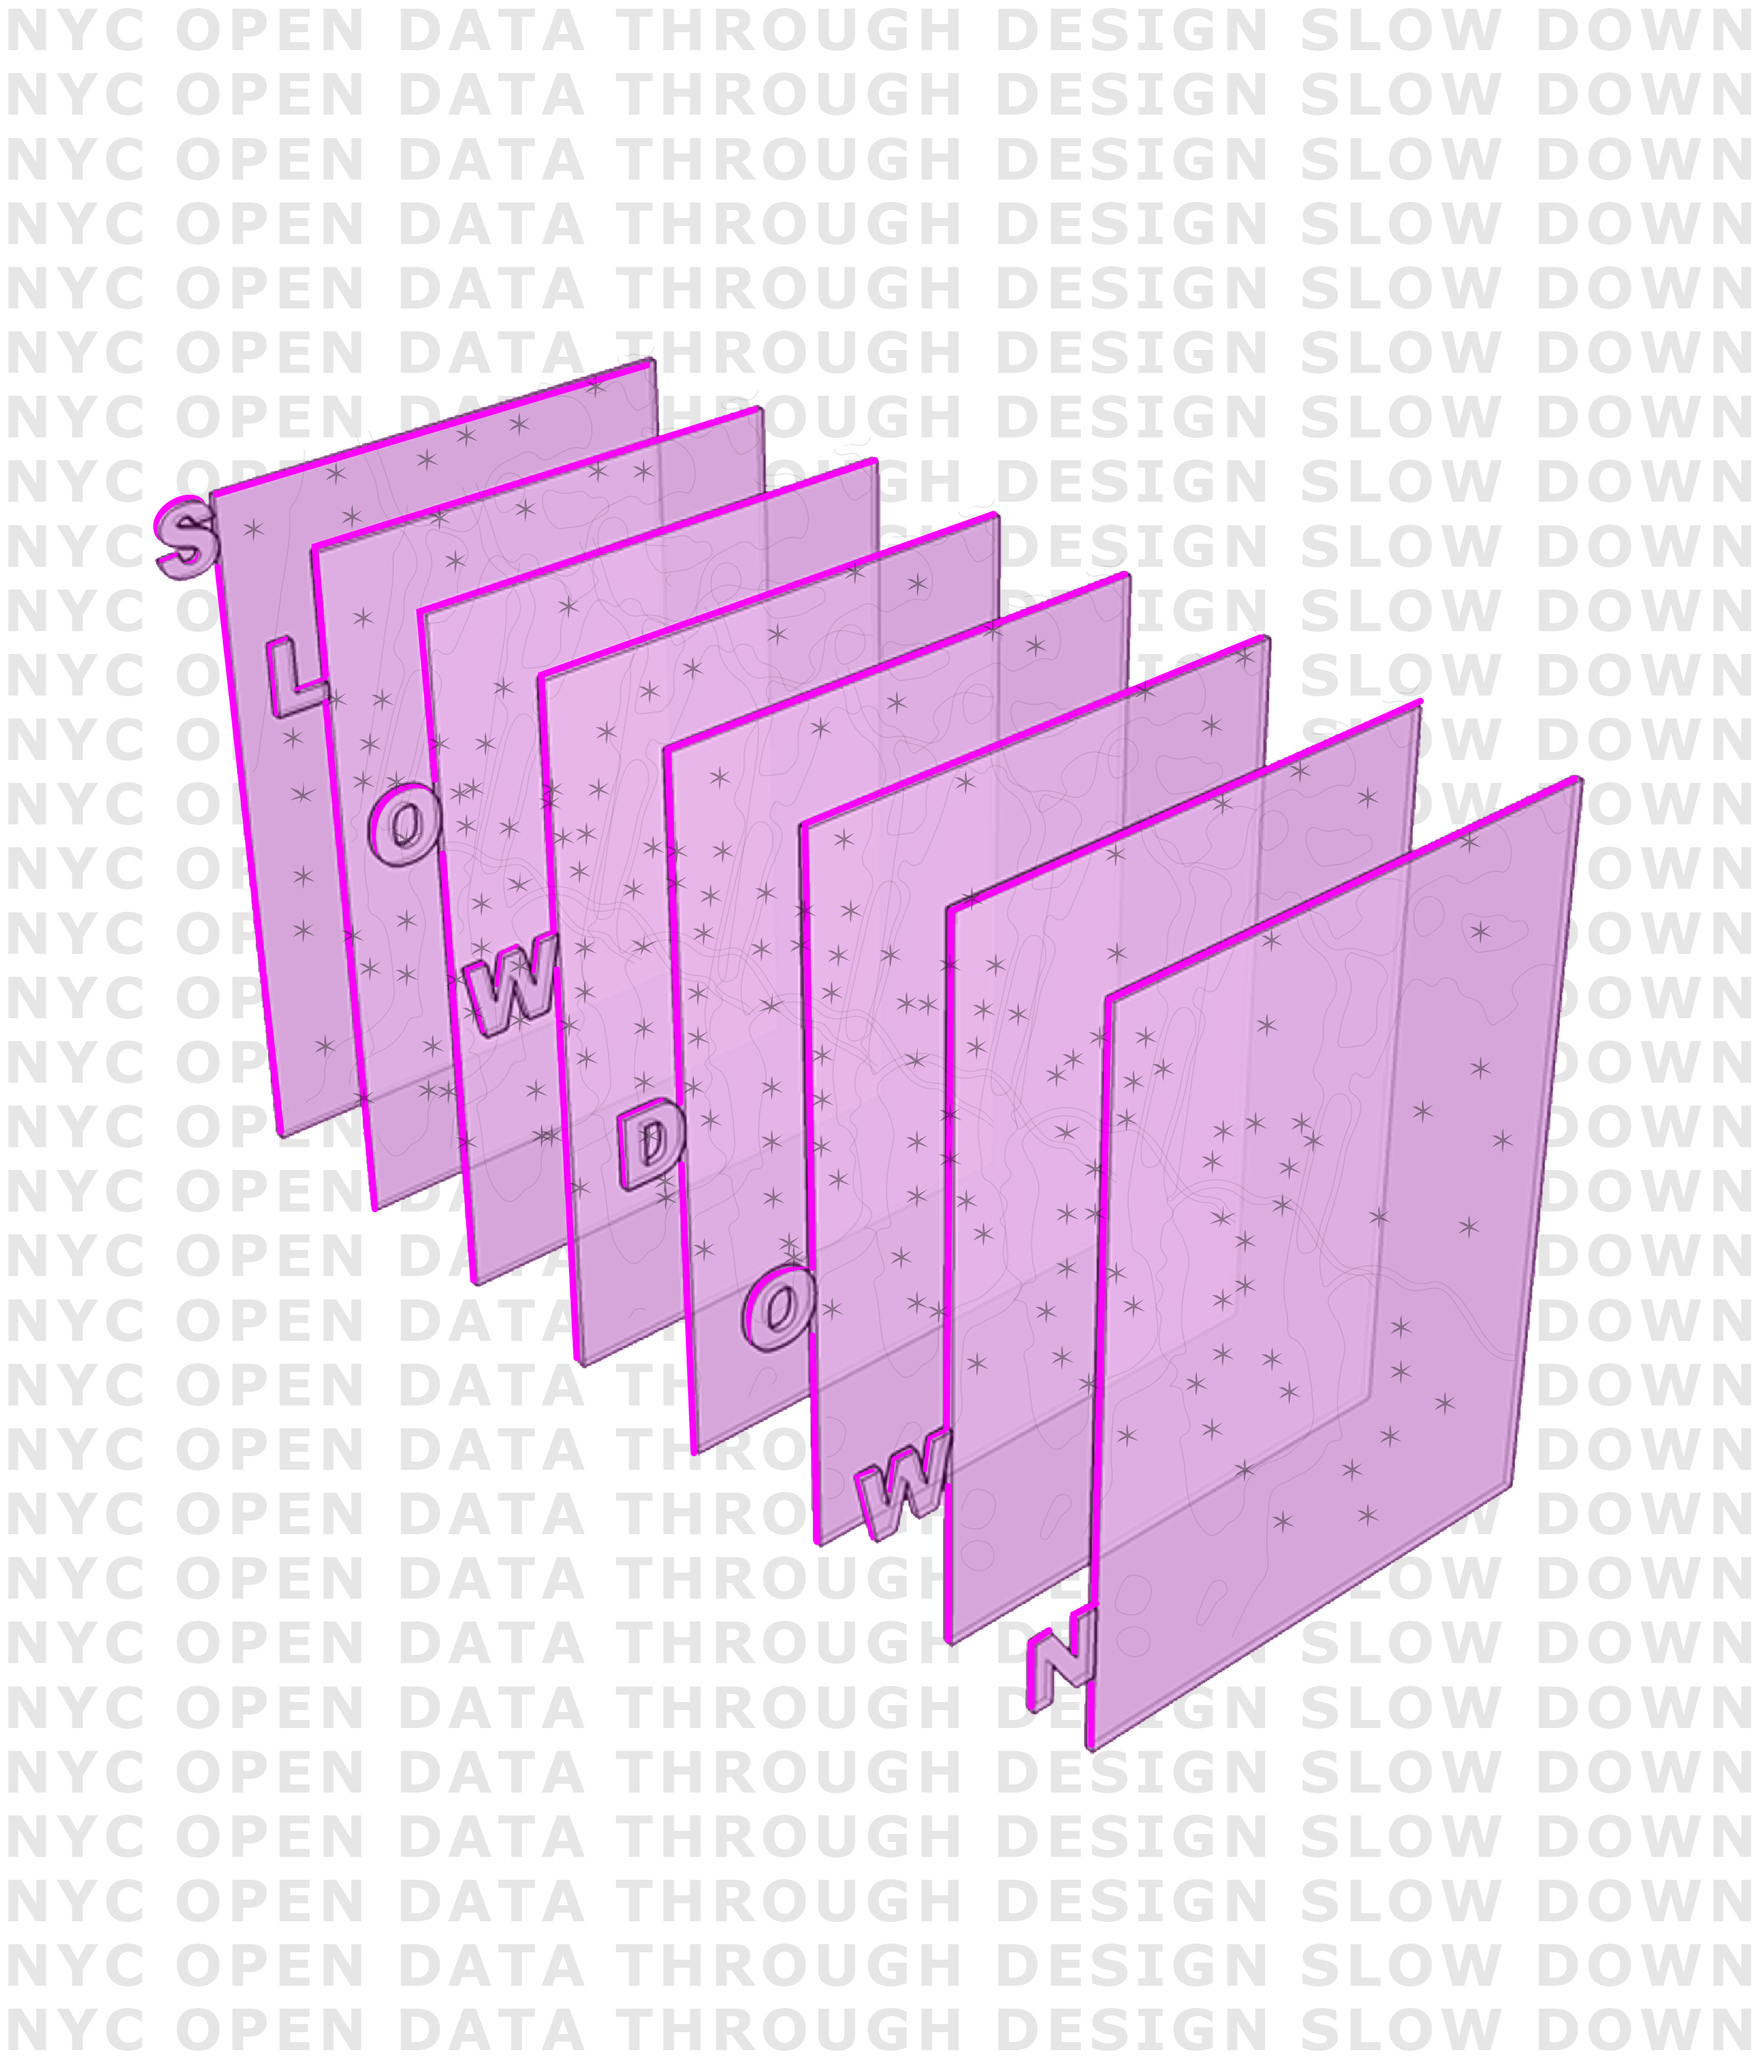
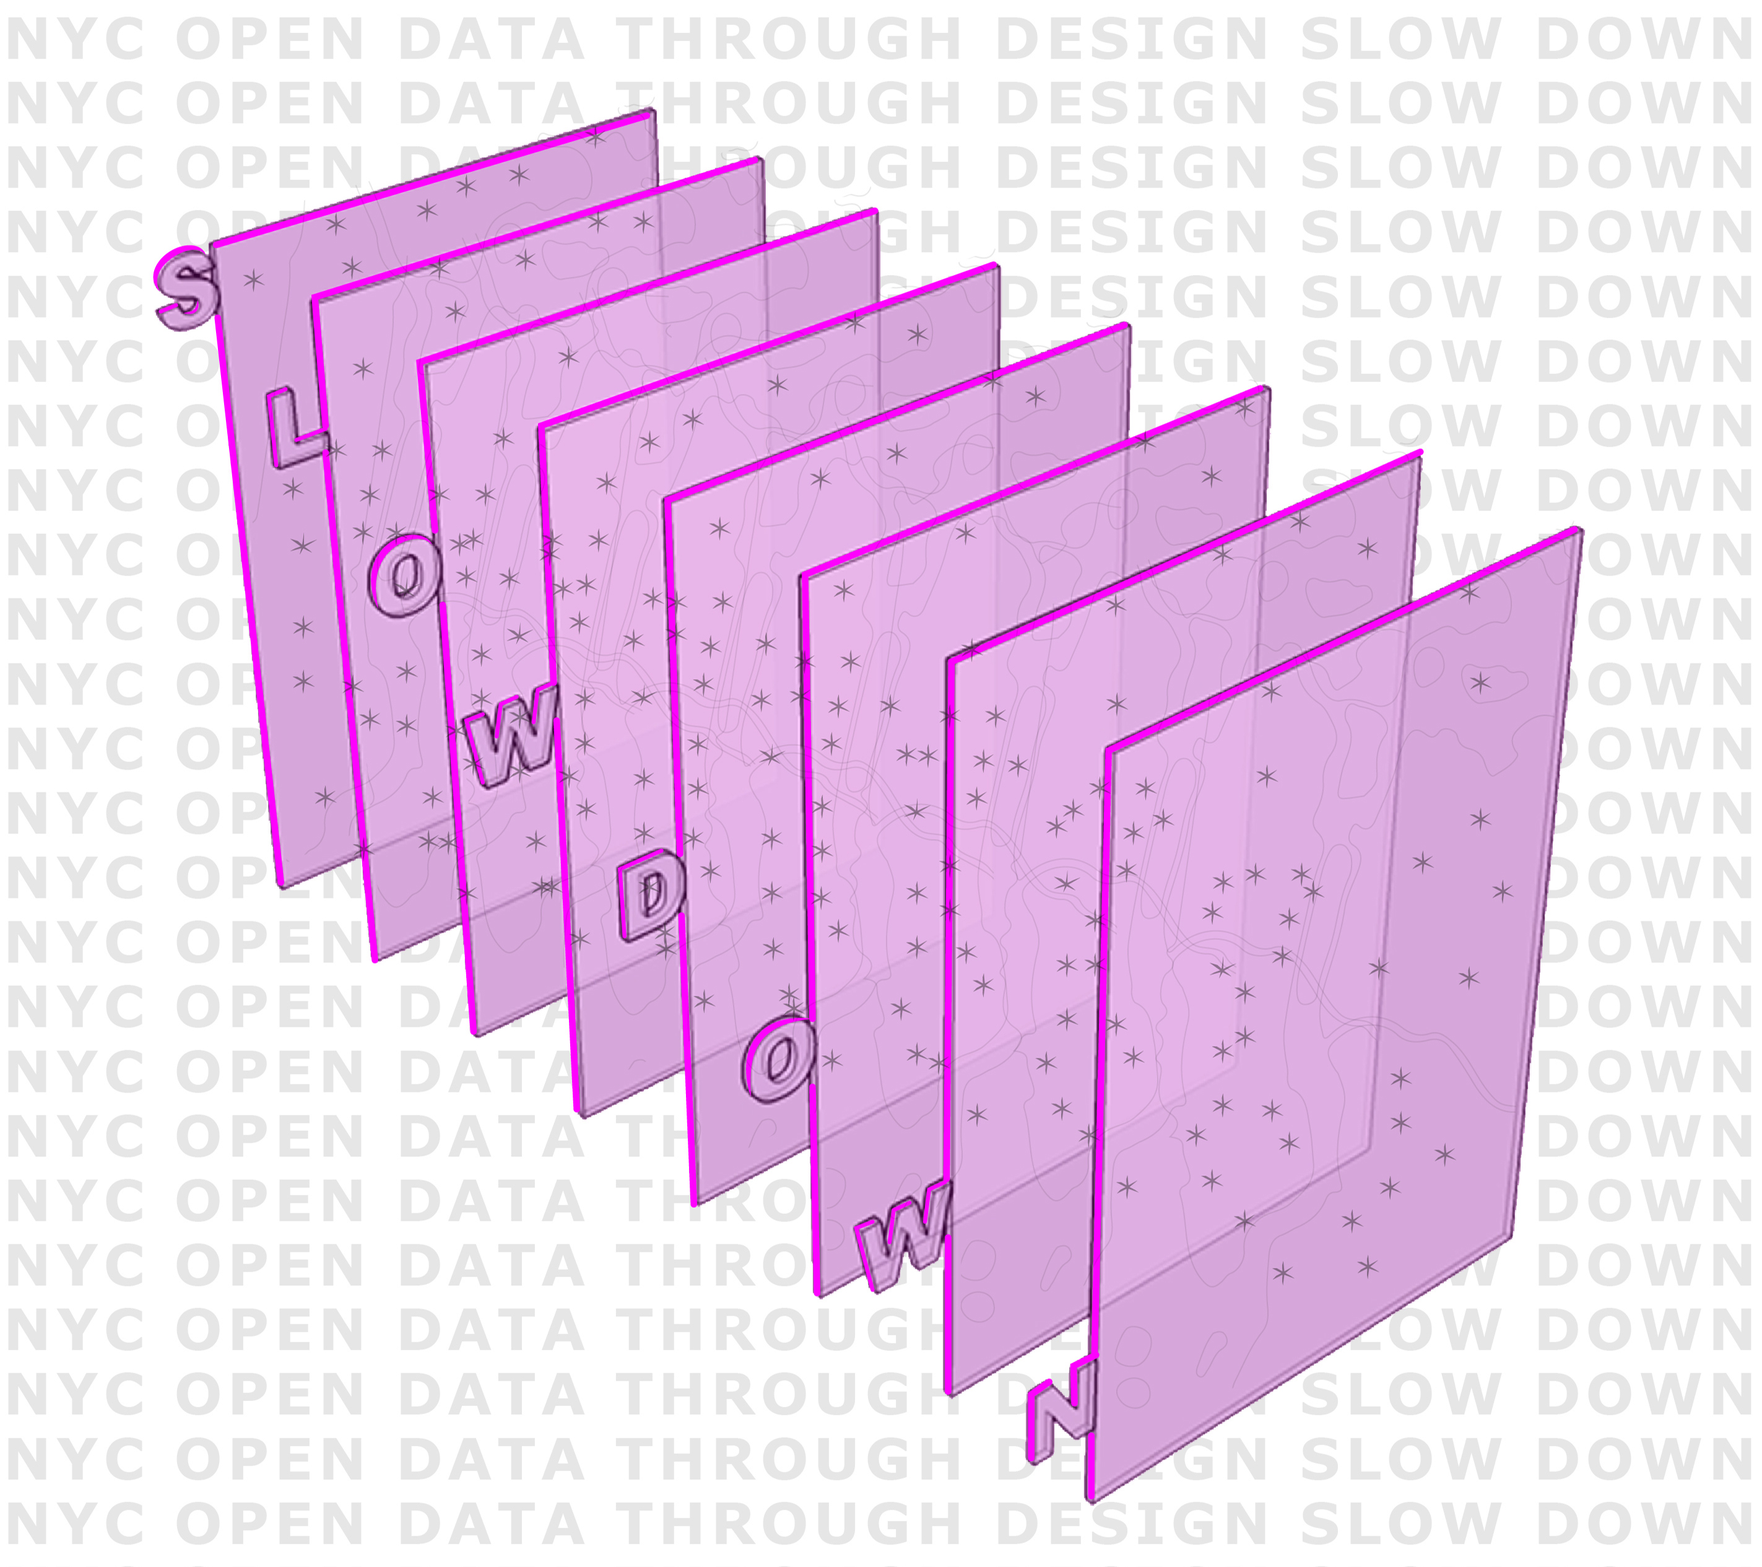
Update index page for ellen page

diff --git a/index.html b/index.html
@@ -111,7 +111,7 @@
                <div class="col-md-4 col-sm-6">
                     <a href="ellenoh.html">
                          <div class="portfolio-thumb">
-                              <img src="images/portfolio-img1.jpg" class="img-responsive" alt="Portfolio">
+                              <img src="images/artists/ellen/rendering.jpg" class="img-responsive" alt="Portfolio">
                                    <div class="portfolio-overlay">
                                         <div class="portfolio-item">
                                              <h3>Slow Down</h3>
